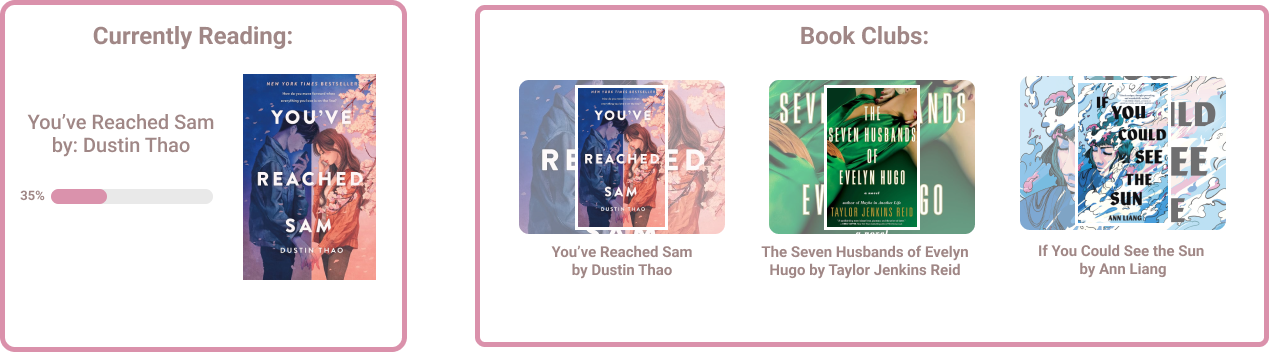
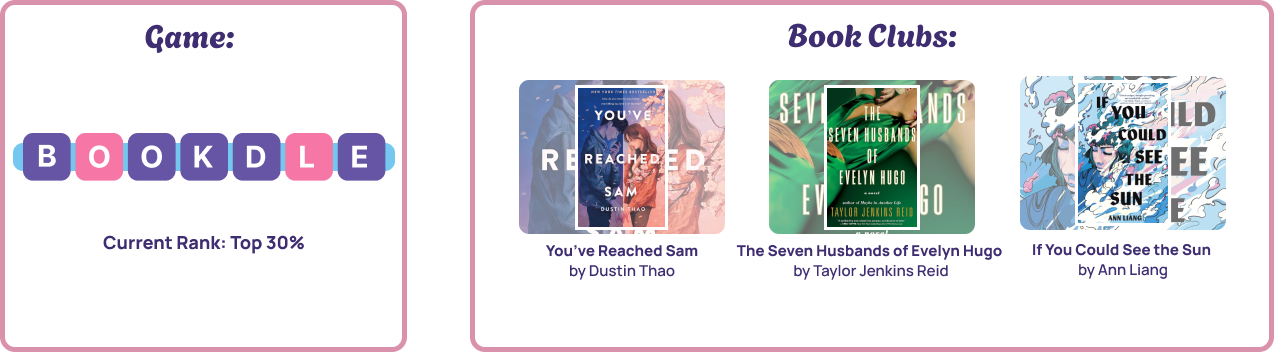
dash updates

diff --git a/frontend/src/routes/Dashboard.css b/frontend/src/routes/Dashboard.css
@@ -69,90 +69,55 @@
     text-align: left;
 }
 
-
- 
   
-.updateprogressbtn{
+.playgamebtn{
+    margin-top: -85px;
+    margin-left: 140px;
+}
+
+.playgamebtn,
+.chat1,
+.chat2,
+.chat3{
     font-family: "Manrope", sans-serif;
     font-optical-sizing: auto;
-    font-weight: 600;
+    font-weight: 700;
     font-style: normal;
     position: absolute;
     display: inline-block;
-    padding: 10px 30px;
+    padding: 10px 25px;
     border-radius: 50px;
-    font-size: 18px;
+    font-size: 20px;
     color: #ffffff;
     background: #F68AAF;
     text-align: center;
     text-decoration: none;
     cursor: pointer;
     box-shadow: 0 0 0 4px #ffffff;
-    margin-top: -110px;
-    margin-left: 25px;
+    transition: 0.3s ease;
 }
 
 .chat1{
-    font-family: "Manrope", sans-serif;
-    font-optical-sizing: auto;
-    font-weight: 600;
-    font-style: normal;
-    position: absolute;
-    display: inline-block;
-    padding: 10px 30px;
-    border-radius: 50px;
-    font-size: 18px;
-    color: #ffffff;
-    background: #F68AAF;
-    text-align: center;
-    text-decoration: none;
-    cursor: pointer;
-    box-shadow: 0 0 0 4px #ffffff;
     margin-left: 810px;
     margin-top: -70px;
-
 }
 
 .chat2{
-    font-family: "Manrope", sans-serif;
-    font-optical-sizing: auto;
-    font-weight: 600;
-    font-style: normal;
-    position: absolute;
-    display: inline-block;
-    padding: 10px 30px;
-    border-radius: 50px;
-    font-size: 18px;
-    color: #ffffff;
-    background: #F68AAF;
-    text-align: center;
-    text-decoration: none;
-    cursor: pointer;
-    box-shadow: 0 0 0 4px #ffffff;
     margin-left: 560px;
     margin-top: -70px;
 }
 
 .chat3{
-    font-family: "Manrope", sans-serif;
-    font-optical-sizing: auto;
-    font-weight: 600;
-    font-style: normal;
-    position: absolute;
-    display: inline-block;
-    padding: 10px 30px;
-    border-radius: 50px;
-    font-size: 18px;
-    color: #ffffff;
-    background: #F68AAF;
-    text-align: center;
-    text-decoration: none;
-    cursor: pointer;
-    box-shadow: 0 0 0 4px #ffffff;
     margin-left: 1070px;
     margin-top: -70px;
 }
 
+.playgamebtn:hover,
+.chat1:hover,
+.chat2:hover,
+.chat3:hover{
+    background-color:#ef749f;
+}
 .topgenres p{
     font-family: "Agbalumo", system-ui;
     font-weight: 400;

diff --git a/frontend/src/routes/Dashboard.js b/frontend/src/routes/Dashboard.js
@@ -10,6 +10,7 @@ import Footer from "../components/Footer";
 import { useNavigate } from "react-router-dom";
 import styled from "styled-components";
 import EditProfileForm from "../components/EditProfileForm";
+import { Link } from 'react-router-dom';
 
 const Dashboard = ({ setAuth }) => {
   const [name, setName] = useState("");
@@ -112,10 +113,12 @@ const Dashboard = ({ setAuth }) => {
 
         <div className="currentreading">
           <img src={CurrentReading} alt="currentreading" className="currentreading-static" />
-          <div className="updateprogressbtn">Update Progress</div>
+          <Link to="/community/game" style={{textDecoration: 'none'}}><div className="playgamebtn">Play!</div></Link>
+          <Link to="/community/BookDetails" style={{textDecoration: 'none'}}>
           <div className="chat1">Chat</div>
           <div className="chat2">Chat</div>
           <div className="chat3">Chat</div>
+          </Link>
         </div>
         <DashboardRecs />
         <div className="topgenres">
@@ -158,6 +161,10 @@ const EditButton = styled.div`
   margin-bottom: 50px;
   margin-left: 20px;
   cursor: pointer;
+
+  &:hover{
+    background-color:#ef749f;
+  }
 `;
 
 const LogoutButton = styled.button`
@@ -173,6 +180,10 @@ const LogoutButton = styled.button`
   cursor: pointer;
   font-size: 25px;
   border: none;
+
+  &:hover{
+    background-color:#ef749f;
+  }
 `;
 
 export default Dashboard;

diff --git a/frontend/src/routes/SearchResultsPage.js b/frontend/src/routes/SearchResultsPage.js
@@ -5,6 +5,7 @@ import SearchRPPicks from '../components/SearchRPPicks';
 import gridIcon from '../assets/gridIcon.png';
 import AbstractImg from '../assets/AbstractImg.png';
 import Card from "../components/Card";
+import { Link } from 'react-router-dom';
 
 // Import forum images
 import forumSquare1 from '../assets/bookforum1.png';
@@ -431,20 +432,24 @@ const Forum2ArtSection = () => {
         </SectionTitle>
         <div className="forums2artsection">
           {forums.map((forum, index) => (
+            <Link to="/community/BookDetails" style={{textDecoration: 'none'}}>
             <Card
               key={index}
               imageUrl={forum.imageUrl}
               description={forum.description}
             />
+            </Link>
           ))}
         </div>
         <div className="forums2artsection">
           {forums2ndrow.map((forum, index) => (
+            <Link to="/community/BookDetails" style={{textDecoration: 'none'}}>
             <Card
               key={index}
               imageUrl={forum.imageUrl}
               description={forum.description}
             />
+            </Link>
           ))}
         </div>
         <SeeMoreButton to="/community">See More</SeeMoreButton>
